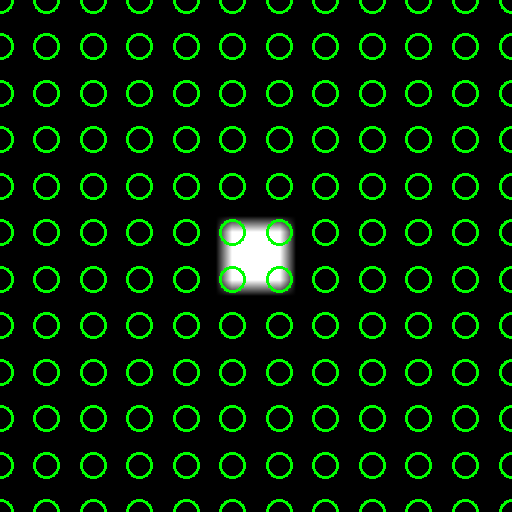
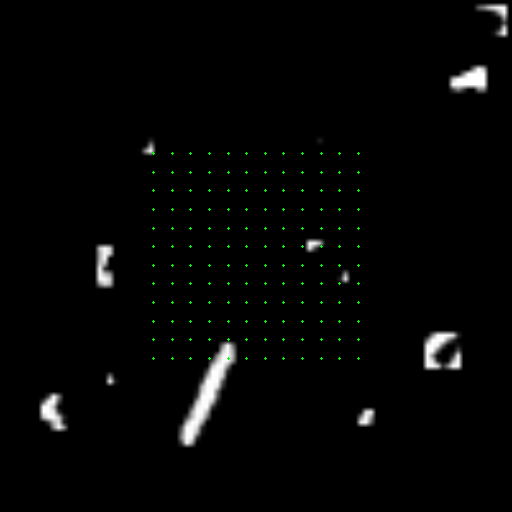
kernels of differing sizes

diff --git a/glimpse.py b/glimpse.py
@@ -12,14 +12,23 @@ class SingleKernelRetinalGlimpse(nn.Module):
         super(SingleKernelRetinalGlimpse, self).__init__()
         self.input_dim = input_dim
         
-        self.num_kernels = 144
+        self.num_kernels = 12*12
+        
+        self.initial_glimpse_size = (40, 40)
+        self.sigma_pixel = 1
+        
+        init_sigma_val = self.sigma_pixel/input_dim[0]*2
+        
+        print("The init sigma val:", init_sigma_val)
 
-        self.init_kernel_parameters(sigma_val=.05)
+        self.init_kernel_parameters(sigma_val=init_sigma_val)
 
     def init_kernel_parameters(self, sigma_val):
+        init_glimpse_len = self.initial_glimpse_size[0] / self.input_dim[0]*2
+        
         # Set up the kernels in a grid
         grid_size = int(self.num_kernels ** 0.5)
-        linspace = torch.linspace(-1, 1, grid_size)
+        linspace = torch.linspace(-init_glimpse_len/2, init_glimpse_len/2, grid_size)
         grid_x, grid_y = torch.meshgrid(linspace, linspace, indexing="ij")
         grid_points = torch.stack([grid_x.flatten(), grid_y.flatten()], dim=-1)
         
@@ -105,14 +114,28 @@ class SingleKernelRetinalGlimpse(nn.Module):
 
         return output
 
+
+
+def read_and_convert_image(file_path):
+
+    image = cv2.imread(file_path, cv2.IMREAD_GRAYSCALE)  # Load as grayscale
+    if image is None:
+        raise ValueError(f"Unable to load image from {file_path}")
+    
+    image_resized = cv2.resize(image, (100, 100), interpolation=cv2.INTER_LINEAR)
+    image_normalized = image_resized / 255.0  # Convert to float in range [0, 1]
+    image_tensor = torch.tensor(image_normalized, dtype=torch.float32).unsqueeze(0)  # Shape: (1, 100, 100)
+    
+    return image_tensor
+
+
 # Example usage
 if __name__ == "__main__":
     # Input image (batch size, height, width)
-    batch_size = 2
-    input_dim = (32, 32)
-    U = torch.rand(batch_size, *input_dim)
-    U[:, :, :] = 0
-    U[:, 14:18, 14:18] = 1
+    batch_size = 1
+    input_dim = (100, 100)
+    U = read_and_convert_image("./dataset/cluttered_mnist/1/4.png")
+    # U = torch.rand(batch_size, *input_dim)
 
     # Control variables
     s_c = torch.zeros((batch_size, 2))  #torch.rand(batch_size, 2) * 2 - 1  # Positions in [-1, 1]
